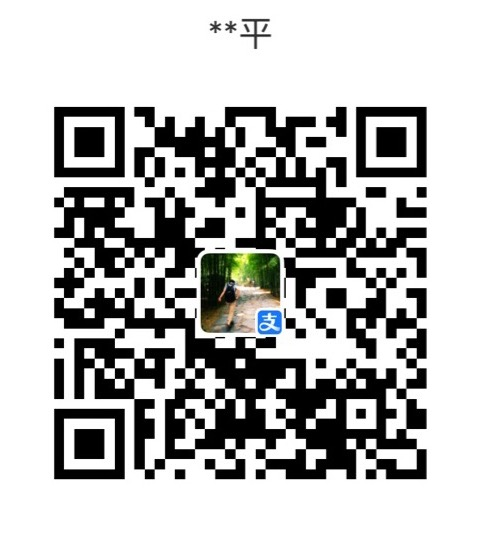
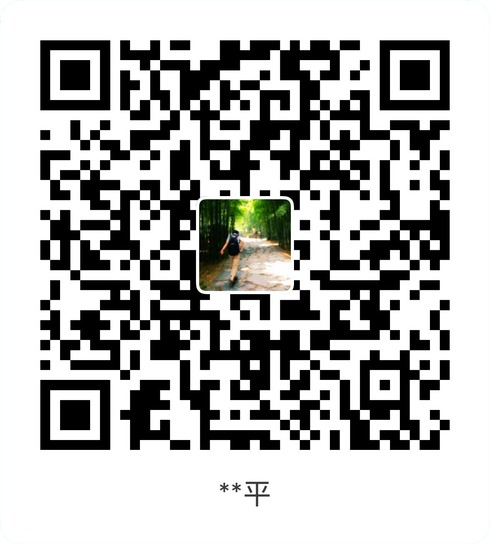
chore(support): strip colored frames from QR codes; use contact@ email
- crop white-card region from Alipay/WeChat QR templates; clean rounded-corner color bleed
- contact email switched to contact@jlptcards.app (own-domain address)

diff --git a/support.html b/support.html
@@ -6,7 +6,7 @@
   <meta name="apple-mobile-web-app-capable" content="yes">
   <meta http-equiv="Cache-Control" content="no-cache, no-store, must-revalidate">
   <title>支持一下 · 日语动词速记</title>
-  <link rel="stylesheet" href="styles.css?v=25">
+  <link rel="stylesheet" href="styles.css?v=26">
   <style>
     .support { max-width: 540px; margin: 0 auto; padding: 32px 20px 60px; }
     .support .back { display: inline-block; color: #aaa; text-decoration: none; font-size: 13px; margin-bottom: 20px; }
@@ -76,7 +76,7 @@
 
     <p class="contact">
       意见反馈、发现 bug、想要什么新内容，欢迎来信：<br>
-      <a href="mailto:xiapchaaoo@gmail.com">xiapchaaoo@gmail.com</a><br>
+      <a href="mailto:contact@jlptcards.app">contact@jlptcards.app</a><br>
       或小红书私信（主页简介里有）
     </p>
   </div>
